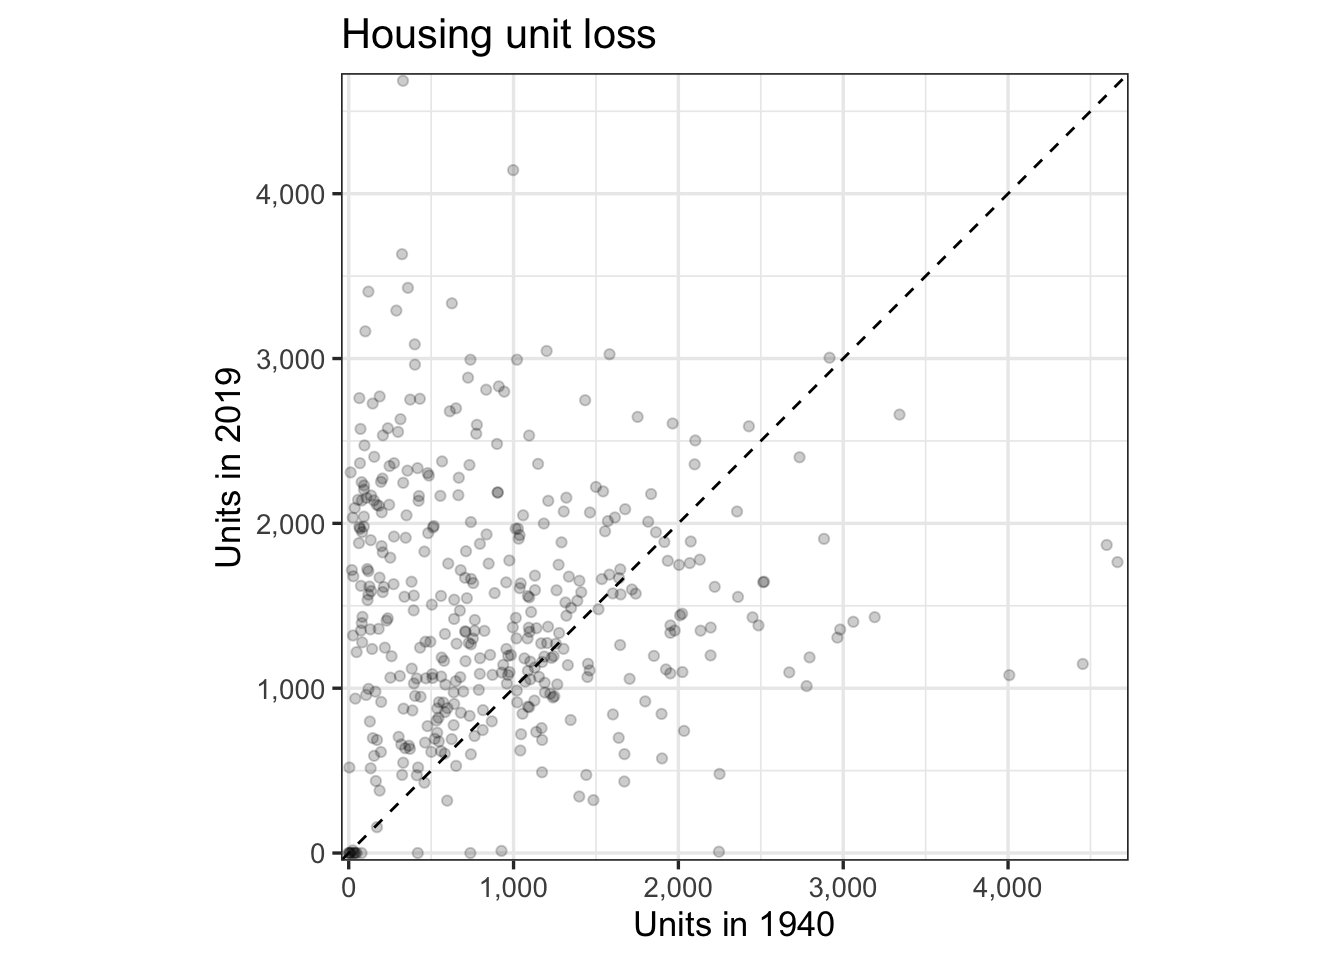
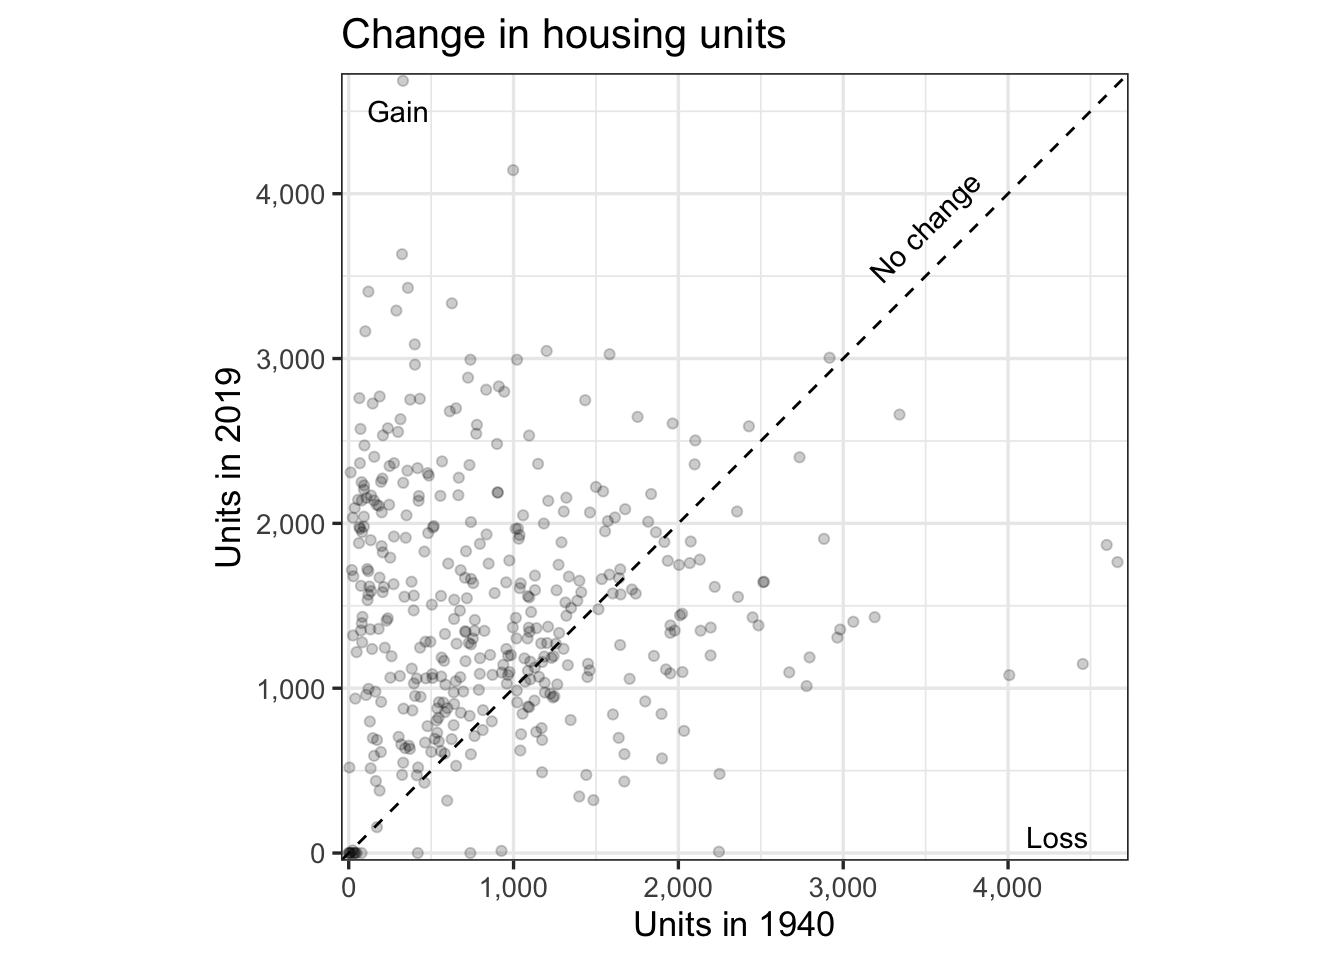
updated graph, added narrative conclusion

diff --git a/content/post/2022-04-03-suburbanization-of-allegheny-county/index.html b/content/post/2022-04-03-suburbanization-of-allegheny-county/index.html
@@ -8,7 +8,7 @@ tags: []
 subtitle: ''
 summary: ''
 authors: [Conor Tompkins]
-lastmod: "2022-04-17 12:44:55"
+lastmod: "2022-04-17 18:05:01"
 featured: no
 image:
   caption: ''
@@ -227,10 +227,13 @@ slope_graph_anim</code></pre>
   ggplot(aes(units_1940, units_2019)) +
   geom_abline(lty = 2) +
   geom_point(alpha = .2) +
+  annotate(&quot;text&quot;, x = 3500, y = 3800, label = &quot;No change&quot;, angle = 45) +
+  annotate(&quot;text&quot;, x = 300, y = 4500, label = &quot;Gain&quot;) +
+  annotate(&quot;text&quot;, x = 4300, y = 100, label = &quot;Loss&quot;) +
   tune::coord_obs_pred() +
   scale_x_comma() +
   scale_y_comma() +
-  labs(title = &quot;Housing unit loss&quot;,
+  labs(title = &quot;Housing unit change&quot;,
        x = &quot;Units in 1940&quot;,
        y = &quot;Units in 2019&quot;)</code></pre>
 <p><img src="{{< blogdown/postref >}}index_files/figure-html/unnamed-chunk-8-1.png" width="672" /></p>
@@ -273,11 +276,12 @@ ac_density &lt;- ac_housing_hu %&gt;%
 curve_anim &lt;- ac_density %&gt;% 
   st_drop_geometry() %&gt;% 
   select(GEOID10, year, housing_units, sqmi) %&gt;% 
-  mutate(year = as.character(year) %&gt;% as.factor()) %&gt;% 
-    arrange(year, sqmi) %&gt;% 
+  mutate(year = as.character(year) %&gt;% fct_inorder()) %&gt;% 
+  arrange(year, sqmi) %&gt;% 
   group_by(year) %&gt;% 
   mutate(housing_units_cumsum = cumsum(housing_units),
          pct_units = housing_units_cumsum / sum(housing_units)) %&gt;% 
+  ungroup() %&gt;% 
   ggplot(aes(sqmi, pct_units, color = year)) +
   geom_line() +
   scale_y_percent() +
@@ -289,7 +293,7 @@ curve_anim &lt;- ac_density %&gt;%
   transition_states(year) +
   shadow_mark()
 
-curve_anim &lt;- animate(curve_anim, duration = 10, fps = 20, end_pause = 60)
+curve_anim &lt;- animate(curve_anim, duration = 10, fps = 20)
 
 curve_anim</code></pre>
 <p><img src="{{< blogdown/postref >}}index_files/figure-html/unnamed-chunk-10-1.gif" /><!-- --></p>
@@ -302,7 +306,6 @@ curve_anim</code></pre>
   filter(housing_units == max(housing_units)) %&gt;% 
   ungroup() %&gt;% 
   rename(max_year = year) %&gt;% 
-  #mutate(max_year = as.factor(max_year)) %&gt;% 
   ggplot() +
   geom_sf(aes(fill = max_year), color = NA) +
   scale_fill_viridis_c(direction = -1) +
@@ -381,5 +384,10 @@ ac_dev %&gt;%
         axis.text.y = element_blank(),
         axis.ticks = element_blank())</code></pre>
 <p><img src="{{< blogdown/postref >}}index_files/figure-html/unnamed-chunk-13-1.png" width="672" />
-I find it interesting that the South Hills area shows more development than the North Hills. I would have expected more development in the North Hills due to the McKnight Road area and Wexford. My guess is that the tracts in the North Hills cover more land area, which drives down the % that is developed. Conversely, the tracts in the South Hills cover less land area, and less of the South Hills is useful for development because of steep hills and creeks.</p>
+I find it interesting that more of the South Hills is developed than the North Hills. I would have expected more development in the North Hills due to the McKnight Road area and Wexford. My guess is that the tracts in the North Hills cover more land area, which decreases the % that is developed. Conversely, the tracts in the South Hills cover less land area, and less of the South Hills is useful for development because of steep hills and creeks. This concentrates development in a smaller area.</p>
+</div>
+<div id="conclusion" class="section level2">
+<h2>Conclusion</h2>
+<p>Over the past 80 years, Allegheny County has lost a significant amount of housing in its core urban area. Much of this is directly related to the collapse of the steel industry and “urban renewal”. At the same time, new housing development has been pushed out to the suburbs. This is a loss in terms of housing density, which has become a major discussion point in urban planning over the past 20 years.</p>
+<p>Higher density areas have a <a href="https://news.berkeley.edu/2014/01/06/suburban-sprawl-cancels-carbon-footprint-savings-of-dense-urban-cores/">lower per capita carbon footprint</a> due to non-car commute modes and agglomeration effects. Higher density also does not expand the <a href="https://en.wikipedia.org/wiki/Wildland%E2%80%93urban_interface">wildland-urban interface</a>. This leaves more land for the natural environment, moves humans away from dangers such as wildfires, and lowers the frequency of interaction between wild animals and humans, which can transfer disease (coronavirus, <a href="https://www.pbs.org/wgbh/nova/article/control-ebola-epidemic-caused-cutting-rainforest/">ebola</a>). It will be interesting to see whether the suburbanization trend continues after the initial shocks of COVID-19 pandemic subside.</p>
 </div>
